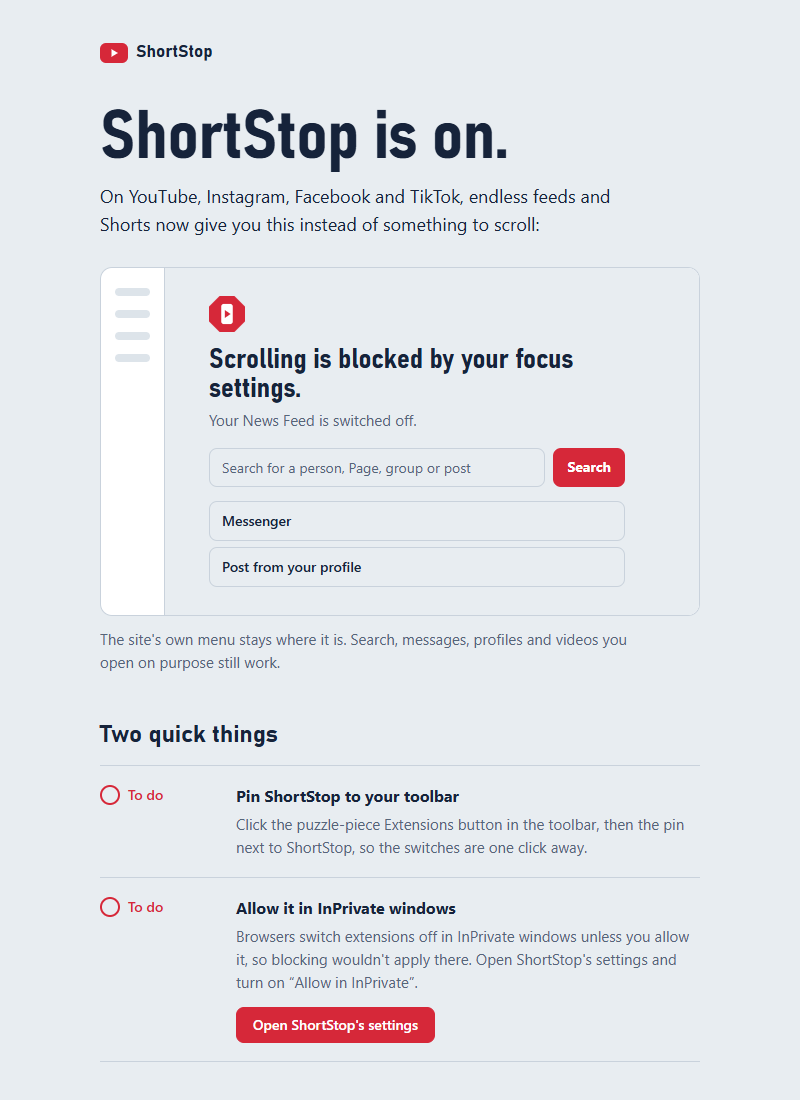
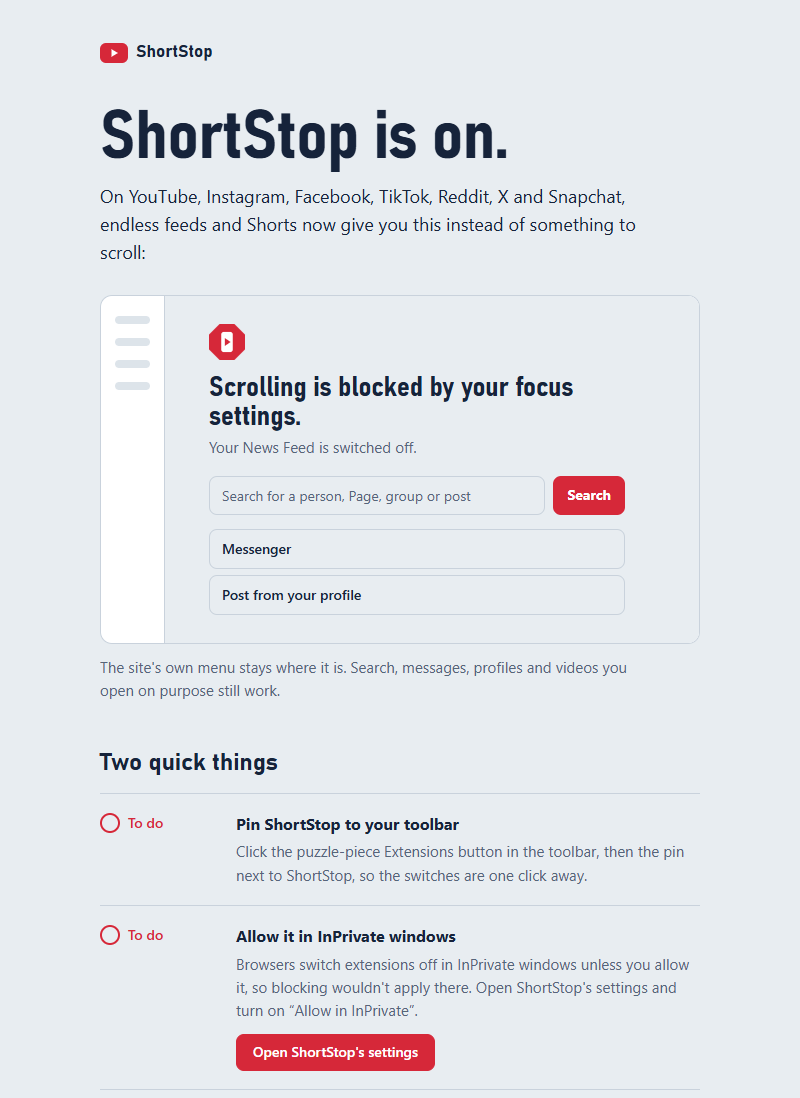
docs: Update README to include focus session shortcut and clarify features

diff --git a/README.md b/README.md
@@ -57,7 +57,7 @@
 - **Allowed times.** Let a site through at set times, like YouTube from 8 to 9pm on weekdays
   or Instagram at weekends. Blocking switches off and on by itself.
 - **Focus sessions.** Block every site for 30 minutes, 1 hour or 2 hours, with the switches
-  locked until it ends.
+  locked until it ends. Start one from the popup, or press **Alt+Shift+F twice** for an hour.
 - **Private by design.** No data collection, no analytics, no network requests, and only
   the permissions it needs.
 - **Plain JavaScript and CSS.** Chrome Manifest V3, no build step, no libraries, and 1,469
@@ -140,16 +140,18 @@ blocked page looks like and walks through the two setup steps a browser won't do
   button that opens ShortStop's settings page.
 
 Both steps update by themselves while the page is open, with no refresh. Where a browser can't
-report the state, the step says so and shows the manual instructions instead. The page only opens
-on a fresh install (not on updates), and you can reopen it any time from **How ShortStop works**
-at the bottom of the popup. It needs no extra permission and makes no network requests.
+report the state, the step says so and shows the manual instructions instead. Below the checklist,
+a short **Good to know** list sums up the one-click switches, allowed times, focus sessions and the
+keyboard shortcut. The page only opens on a fresh install (not on updates), and you can reopen it
+any time from **How ShortStop works** at the bottom of the popup. It needs no extra permission and
+makes no network requests.
 
 <p align="center">
   <img src="docs/welcome.png" width="520" alt="The ShortStop welcome page: an illustration of the blocking panel, and a checklist for pinning the icon and allowing private windows">
 </p>
 
 <p align="center">
-  <img src="docs/popup.png" width="300" alt="The ShortStop popup: 17 blocked today, with per-platform switches, options and counts">
+  <img src="docs/popup.png" width="300" alt="The ShortStop popup: 27 blocked today, the focus session buttons, and a switch, blocked-today count and allowed times for each of the seven sites">
 </p>
 
 ## Privacy
@@ -160,9 +162,10 @@ at the bottom of the popup. It needs no extra permission and makes no network re
 - **Minimum permissions:** `storage`, plus host access to the seven sites it works on
   (YouTube, Instagram, Facebook, TikTok, Reddit, X and Snapchat). It can't see any other
   website.
-- Your platform switches, options and allowed times are saved with `chrome.storage.sync`, so
-  they follow your browser profile. The daily counter, a waiting change to the allowed times
-  and any *Block now* live in `chrome.storage.local`, on your device only.
+- Your platform switches, options, allowed times and a running focus session's end time are
+  saved with `chrome.storage.sync`, so they follow your browser profile. The daily counter, a
+  waiting change to the allowed times and any *Block now* live in `chrome.storage.local`, on
+  your device only.
 
 ## Install
 
@@ -276,16 +279,17 @@ const ALLOW_X_NOTIFICATIONS = false;
 const BLOCK_SNAPCHAT_SPOTLIGHT = true;          // Spotlight, Discover, Explore
 ```
 
-The userscript has no popup, daily counter or allowed times, because Safari userscripts have
-no shared storage. To switch a platform off, set its constant to `false`, and back to `true`
-later.
+The userscript has no popup, daily counter, allowed times, focus sessions or keyboard shortcut,
+because Safari userscripts have no shared storage. To switch a platform off, set its constant to
+`false`, and back to `true` later.
 
 ## How it works
 
 ```
 extension/
-├── manifest.json            MV3 manifest: storage + the seven sites, nothing else
-├── background.js            Service worker: keeps the daily counter (one write queue for all tabs)
+├── manifest.json            MV3 manifest: storage + the seven sites, and the Alt+Shift+F command
+├── background.js            Service worker: the daily counter (one write queue for all tabs), the
+│                            Alt+Shift+F focus-session shortcut, and the welcome page on first install
 ├── shared/stats.js          Counter helpers shared by the background worker and popup
 ├── shared/pause.js          The 30-second wait before loosening allowed times, shared by popup and welcome page
 ├── shared/schedule.js       Allowed times: is a platform allowed now, until when, and is a change looser
@@ -299,13 +303,17 @@ extension/
 │   ├── reddit.js            Reddit focus mode: Home, Popular, All and Explore covered
 │   ├── x.js                 X focus mode: Home timeline and Explore covered, sidebar trends
 │   └── snapchat.js          Snapchat focus mode: Spotlight, Discover and Explore covered
-├── popup/                   Platform switches, options, allowed times and today's counter
+├── popup/                   Focus sessions, platform switches, options, allowed times and today's counter
 ├── welcome/                 First-run page: the panel explained, pin and private-window checklist
 └── icons/                   16, 32, 48 and 128 px PNGs
 userscript/shortstop.user.js Generated from content/*.js for iOS Safari
-tools/                       Icon generator, userscript builder, zip packager (Python, no dependencies)
-tests/                       Fixture pages, a test harness and a headless-Chrome test runner
+tools/                       Python helpers, no dependencies: icons, userscript builder, zip packager,
+                             and the privacy guard, README-count and version checks
+tests/                       Fixture pages, a test harness, a headless-browser runner, privacy-guard tests
+.github/                     Workflows (tests, privacy guard, CodeQL, releases) and Dependabot
 docs/                        Screenshots used in this README
+TESTING.md                   Manual checklist to run on real accounts
+CLAUDE.md                    Notes for Claude Code, including the one-branch-per-change rule
 ```
 
 Each platform file is a single config object, and `core.js` does the work:
@@ -344,7 +352,12 @@ Each platform file is a single config object, and `core.js` does the work:
    platform or option off removes the stylesheet, un-hides everything and removes the panel,
    and switching it on re-applies everything. No reload needed. Allowed times
    (`shared/schedule.js`, loaded before `core.js`) are checked once a second, and the
-   settings are re-applied whenever an allowed time starts or ends.
+   settings are re-applied whenever an allowed time starts or ends. A **focus session** is
+   just an end time (`focusUntil`) in the synced settings, and the engine treats it as the
+   strongest rule: while it runs, every platform blocks whatever its switch, allowed times or
+   options say. The popup starts one and locks its controls, and `background.js` starts one from
+   the keyboard shortcut (first press arms it and shows **1h?** on the icon, second press within
+   5 seconds starts it), so the shortcut works without opening the popup.
    When ShortStop is reloaded or updated, the copy already running in open tabs is cut off
    and can no longer hear the popup, and browsers don't give those tabs the new copy. The
    one-second check notices, and a tab showing only the ShortStop panel refreshes itself, so
@@ -491,13 +504,18 @@ platform it checks:
 - every redirect rule
 - redirects triggered by SPA navigation
 
-Two more pages have no site markup. `schedule.html` unit-tests
+Three more pages have no site markup. `schedule.html` unit-tests
 [shared/schedule.js](extension/shared/schedule.js): weekday, all-day and past-midnight times,
 back-to-back times, bad data, and which edits count as looser. `popup.html` loads the real
 popup with an in-memory `chrome.storage` and clicks through it: leftovers from the retired
 pause flow being tidied away, every switch turning off and back on in one click, *Hide YouTube
 Shorts*, adding a time (waits), shortening and removing one (instant), a time with no days,
 *Block now*, and a focus session starting, locking everything and unlocking by itself.
+`background.html` loads the real [background.js](extension/background.js) with a fake `chrome`
+API and "presses" the keyboard shortcut: the first press only shows **1h?** and clears after 5
+seconds, a second press starts the hour and shows **60m**, a press during a session shows the
+minutes left without extending it, and any other command does nothing. It can't test that a
+real browser assigns the key, which depends on your browser (see the limitations below).
 
 A manual checklist for real accounts is in [TESTING.md](TESTING.md).
 
@@ -513,6 +531,13 @@ A manual checklist for real accounts is in [TESTING.md](TESTING.md).
   still change settings in the browser's developer tools or uninstall the extension, even
   during a focus session.
 - Allowed times follow each device's own clock and time zone.
+- **The Alt+Shift+F shortcut isn't guaranteed.** A browser leaves a suggested shortcut unset when
+  another extension already uses it. The popup only shows its "press … twice" line when a
+  shortcut is assigned, so if that line is missing, set one at `chrome://extensions/shortcuts`
+  (or `edge://` / `brave://`). It only works while the browser window has focus (not another app
+  such as a code editor), and the **1h?** badge appears on ShortStop's toolbar icon, so pin the
+  icon to see it. Alt+Shift may also clash with Windows' keyboard-layout switching if you have
+  several input languages; if it does, choose another combination.
 - **Private windows.** Browsers don't run extensions in private/incognito windows unless you
   allow it under the extension's details, so blocking doesn't apply there by default.
 - The smaller options (*Hide YouTube Shorts*, *Allow notifications*, *Allow Marketplace
@@ -565,8 +590,9 @@ A manual checklist for real accounts is in [TESTING.md](TESTING.md).
 Have an idea for a feature? You don't need to ask first. Build it and send it in:
 
 1. **Fork** this repository (the **Fork** button at the top of the page).
-2. Make your change on a new branch in your fork. If it changes what gets blocked, add the
-   new markup to `tests/fixtures/<platform>.html` (see
+2. Make your change on a new branch in your fork, one branch per feature or fix, named for what
+   it does (`feature/…`, `improvement/…`, `fix/…` or `docs/…`). If it changes what gets
+   blocked, add the new markup to `tests/fixtures/<platform>.html` (see
    [When a site changes](#when-a-site-changes-updating-selectors)).
 3. Run `python tests/run_tests.py` and `python tools/build_userscript.py`. The same checks run
    automatically on your pull request, and it shows whether they passed.
